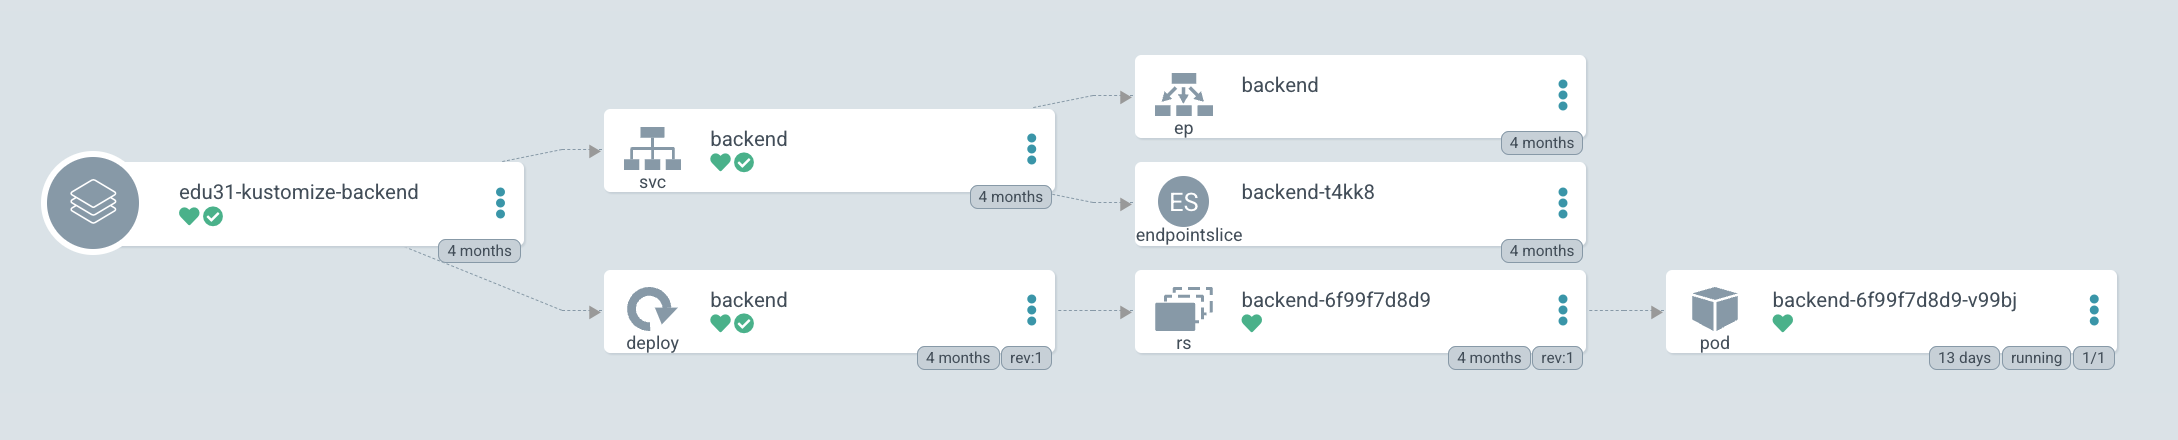
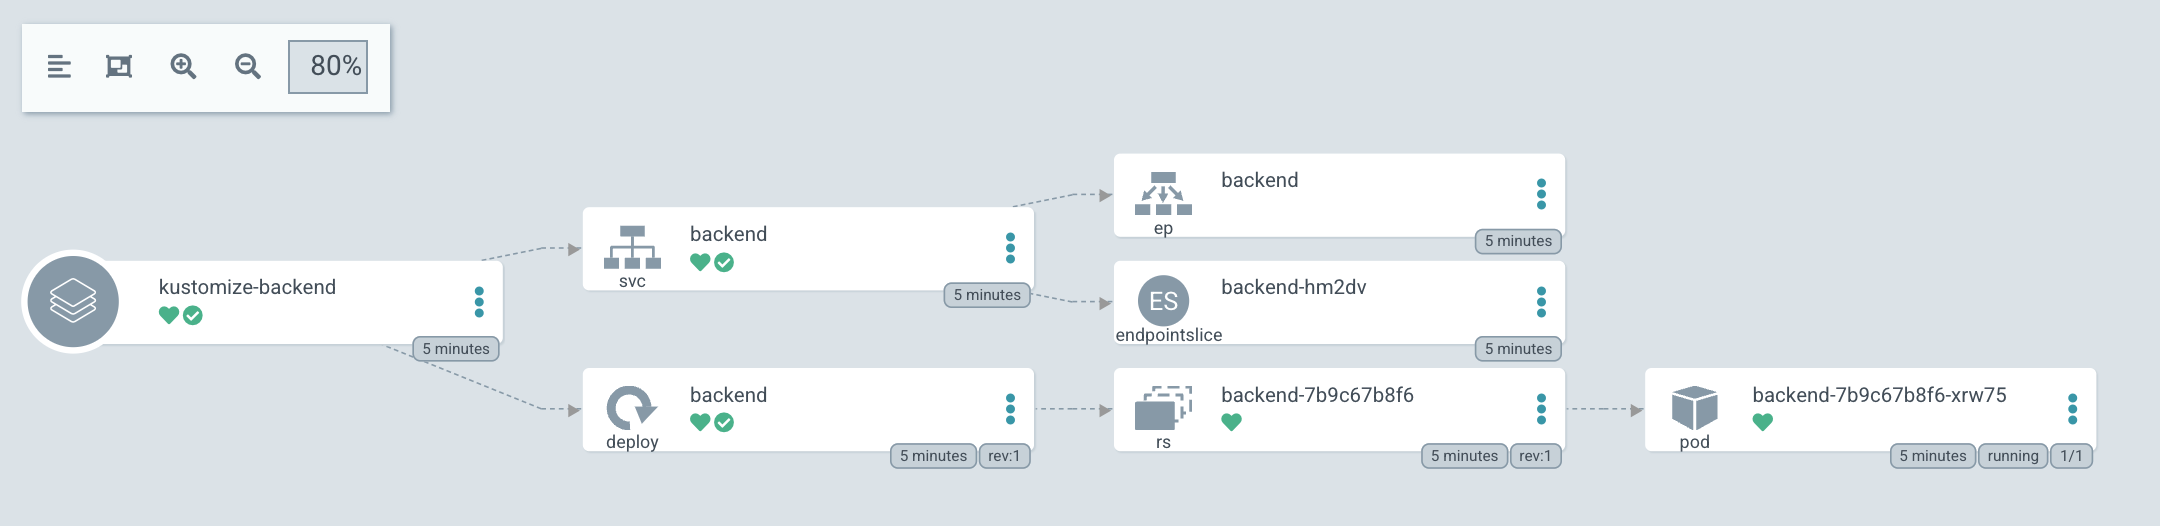
app-of-apps added

diff --git a/keycloak.md b/keycloak.md
@@ -1456,7 +1456,7 @@ metadata:
   annotations:
     kubernetes.io/ingress.class: "nginx"
 spec:
-  tls:
+  # tls:
   # - hosts:
   #  - frontend-keycloak-ssl.kteducation.duckdns.org
   #  secretName: edu-tls
@@ -1575,7 +1575,7 @@ Main Application 인 edu-apps를 클릭한다.
 
 <br/>
 
-backend 구성을 보실려면 edu-backend를 클릭해서 확인한다.   
+backend 구성을 보실려면 kustomize-backend 를 클릭해서 확인한다.   
 
 
 <img src="./assets/app_of_apps3.png" style="width: 80%; height: auto;"/>
